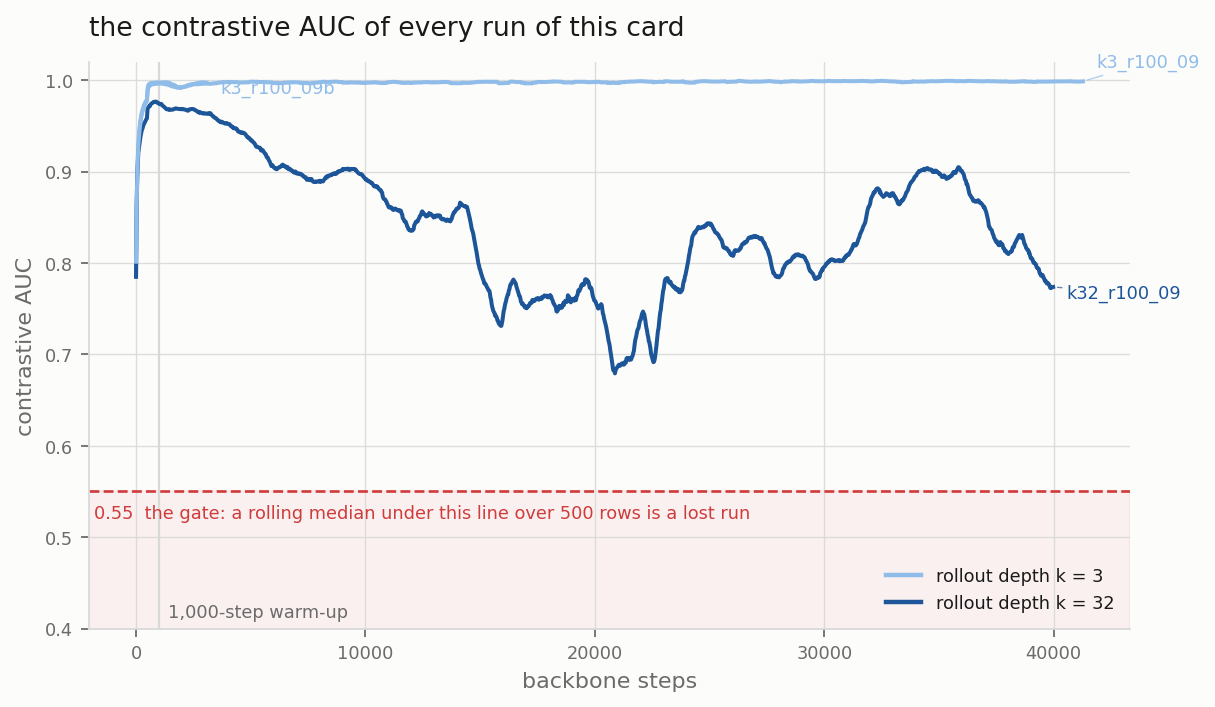
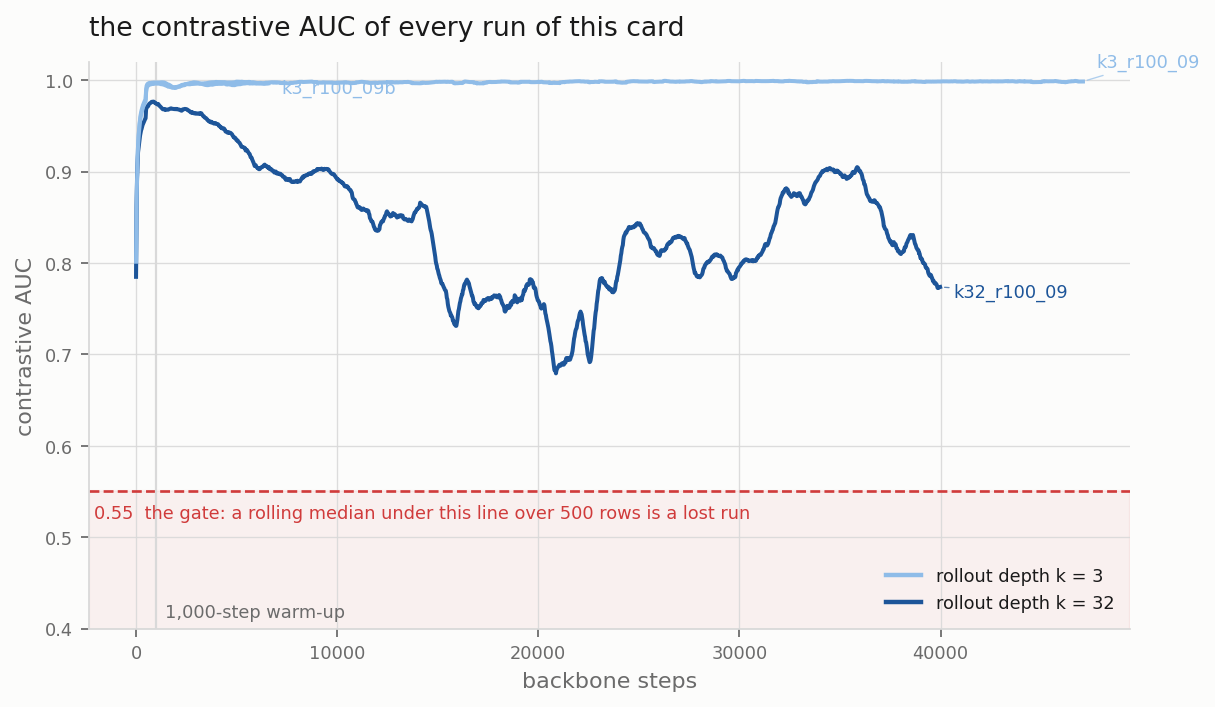
fix(#412): the status reads the furthest leg, and every stop
An arm that climbs writes into `leg_100k` while its `leg_40k` CSV sits
finished at 40,000 steps. `watch_status.sh` read the 40,000-step leg, so
it reported a climb that had not moved for hours.
`cf412_furthest_losses_csv` takes the highest leg on disk, and the score
column now names each stop that holds one.

diff --git a/reports/2026-09-06_moirai_small_size/results/tables.md b/reports/2026-09-06_moirai_small_size/results/tables.md
@@ -10,17 +10,17 @@
 |---|---|---|---|---|---|
 | k32_r100_09 | held | 0.6827 | 20872 | 0.7732 | 40000 |
 | k3_r100_09 | held | 0.9931 | 1942 | 0.9988 | 40000 |
-| k3_r100_09 | held | 0.9974 | 40001 | 0.9990 | 41300 |
-| k3_r100_09b | held | 0.9922 | 1869 | 0.9965 | 3100 |
+| k3_r100_09 | held | 0.9974 | 40001 | 0.9993 | 47100 |
+| k3_r100_09b | held | 0.9922 | 1869 | 0.9967 | 6600 |
 
 ### The loss by term
 
 | arm | stop | last step | total loss | L_rep | L_align | L_rep weight | EMA momentum | AUC |
 |---|---|---|---|---|---|---|---|---|
 | k32_r100_09 | 40,000 | 40,000 | 13.4947 | 11.6270 | 1.7583 | 1.00 | 0.9400 | 0.7629 |
-| k3_r100_09 | 100,000 | 41,300 | 12.5069 | 11.7613 | 0.1801 | 1.00 | 0.9413 | 0.9984 |
+| k3_r100_09 | 100,000 | 47,100 | 12.6187 | 11.7832 | 0.2023 | 1.00 | 0.9471 | 0.9982 |
 | k3_r100_09 | 40,000 | 40,000 | 12.5323 | 11.7822 | 0.1852 | 1.00 | 0.9400 | 0.9993 |
-| k3_r100_09b | 40,000 | 3,100 | 12.7496 | 11.6900 | 0.2152 | 1.00 | 0.9031 | 0.9954 |
+| k3_r100_09b | 40,000 | 6,600 | 12.9589 | 11.6864 | 0.2704 | 1.00 | 0.9066 | 0.9973 |
 
 ### The cost
 
